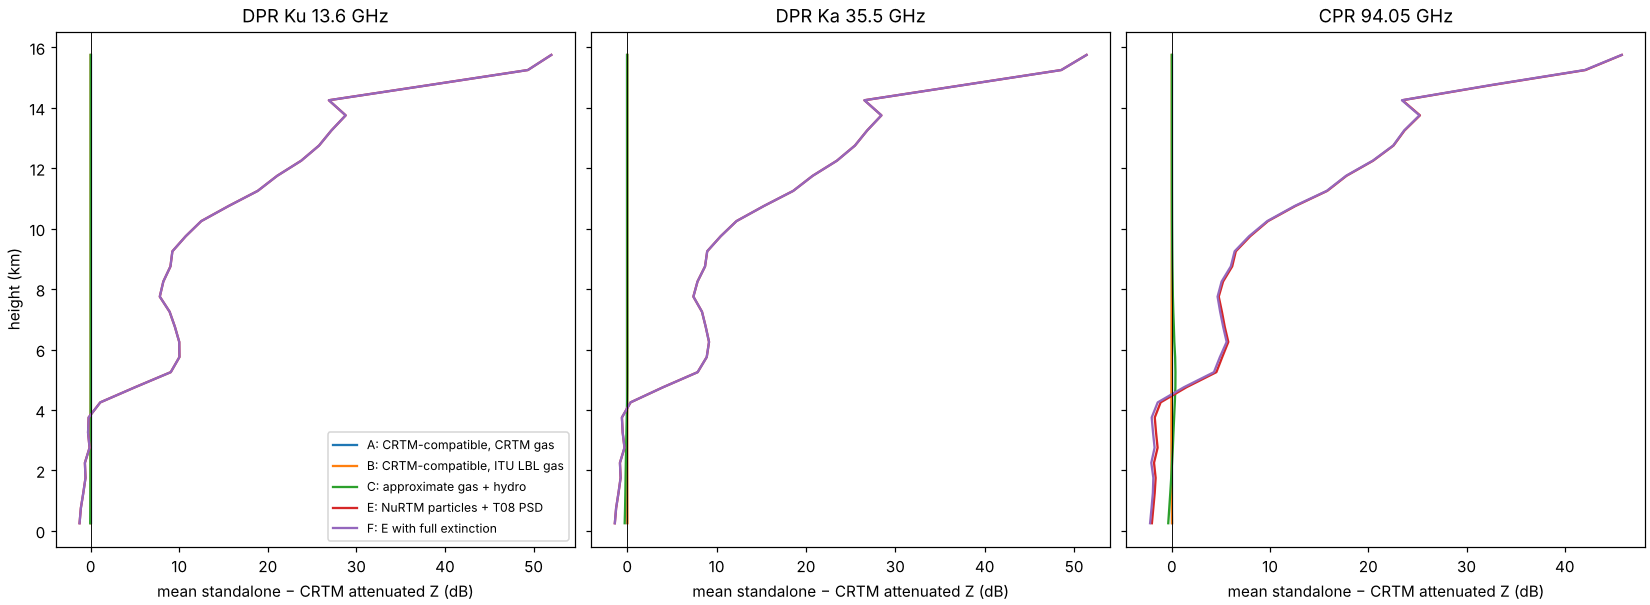
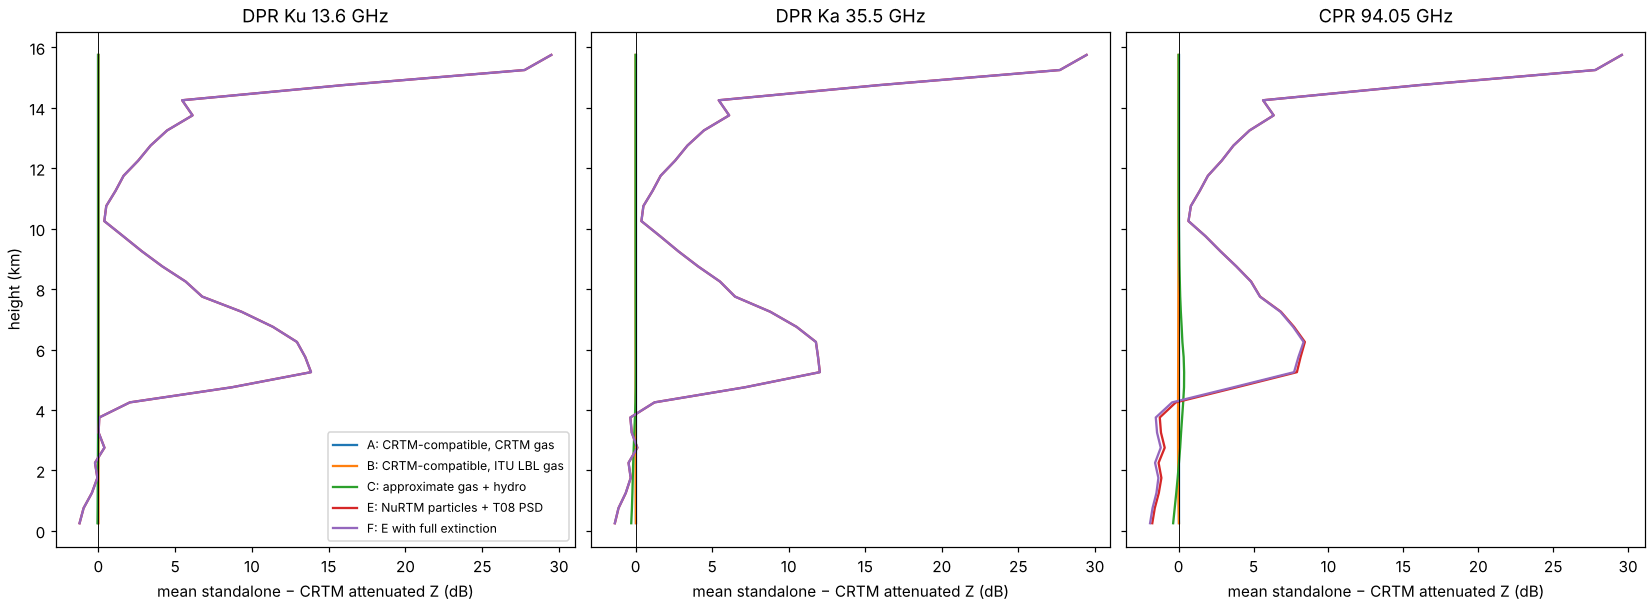
Add Thompson 2008 cloud ice PSD; same snow habit in CRTM comparison
PSD_T08_ICE: exponential cloud ice with m = pi/6*890 D^3, Ni fixed or
diagnosed with Cooper (1986) capped at 250 L-1, and the Thompson slope
limits. The comparison driver can run CRTM and the LUT variants with a
chosen snow habit (6BulletRosette here) so the habit matches the NuRTM
particles. Comparison write-up updated.

Claude-Session: https://claude.ai/code/session_01TgNzgcBqdRDrSGhnfs1DdV

diff --git a/standalone_radar/doc/COMPARISON.md b/standalone_radar/doc/COMPARISON.md
@@ -93,42 +93,43 @@ configurations: `test/test_radar_operator.f90`.
 
 The species are built from the NuRTM single-scattering databases
 (`ssdb_nurtm/mw`, converted from the ARTS DDA database) with
-`species_from_ssdb`, using the PSDs of the NuRTM validation runs:
+`species_from_ssdb`:
 
 | Species | Habit | PSD |
 | --- | --- | --- |
-| cloud liquid | LiquidSphere | gamma, N0 = 3e35, μ = 4, on d_veq |
-| cloud ice | IceSphere | gamma, N0 = 1e10, μ = 1, on d_max |
+| cloud liquid | LiquidSphere | gamma, N0 = 3e35, μ = 4, on d_veq (NuRTM validation default) |
+| cloud ice | IceSphere | Thompson 2008 ice: exponential, m = π/6·890 D³, Ni from Cooper (1986) capped at 250 L⁻¹, Thompson slope limits |
 | rain | LiquidSphere | Thompson 2008 rain (N0 = 8e6), on d_veq |
 | snow | 6BulletRosette | Thompson 2008 snow, Field et al. (2005) two-mode |
 
-As in NuRTM, the cross sections are interpolated linearly in frequency and
-temperature, the PSD is evaluated on the database sizes and renormalised to
-the database particle masses, and the asymmetry parameter comes from F11.
-TL, AD and K pass the same tests as the other paths (6 more cases).
+In this run CRTM and the table variants (A to D) also use the 6-bullet
+rosette for snow (`compare_crtm ... 6BulletRosette`), so the habit is the same
+everywhere. As in NuRTM, the cross sections are interpolated linearly in
+frequency and temperature, the PSD is evaluated on the database sizes and
+renormalised to the database particle masses, and the asymmetry parameter
+comes from F11. TL, AD and K pass the same tests as the other paths.
 
-Median Z on gates with only one species (all 60048 profiles):
+Median Z (dBZ) on gates with only one species, all 60048 profiles:
 
 | Species | Ku: CRTM / E | Ka: CRTM / E | W: CRTM / E |
 | --- | --- | --- | --- |
 | rain | 2.2 / 2.3 | 2.9 / 2.9 | 2.7 / 2.6 |
-| snow | −8.4 / −1.8 | −8.2 / −2.1 | −7.3 / −3.8 |
+| snow (6-bullet rosette in both) | −8.9 / −1.8 | −8.7 / −2.1 | −8.5 / −3.8 |
 | cloud liquid | (0) / −54 | (0) / −54 | (0) / −54 |
-| cloud ice | (0) / −0.1 | (0) / −0.1 | (0) / −2.0 |
+| cloud ice | (0) / −26 | (0) / −26 | (0) / −25 |
 
-* **Rain agrees with the CRTM table to 0.1 dB** at all three frequencies:
-  the CRTM DDA Thompson table and the NuRTM liquid spheres with the
-  Thompson rain PSD are the same physics.
-* **Snow is 3 to 6 dB higher** than CRTM. CRTM's table uses the
-  SectorSnowflake habit, which is not in the NuRTM database, and the
-  standalone run uses the 6-bullet rosette, as the NuRTM validation runs do.
-  The habit is the most likely cause.
-* **Cloud liquid** gives about −54 dBZ, realistic for the small water
-  contents in these gates.
-* **Cloud ice** with the gamma PSD (N0 = 1e10, μ = 1) gives about 0 dBZ for a
-  few mg m⁻³, which is high for cloud ice (typically −30 to −15 dBZ). That
-  PSD puts the mass in particles of a few hundred micrometres. A cloud-ice
-  PSD with more, smaller particles (or the number concentration from the
-  model) would be more realistic.
+* **Rain agrees with the CRTM table to 0.1 dB** at all three frequencies.
+* **Snow is 4 to 7 dB higher than CRTM even with the same habit**, so the
+  difference is in the PSD. The CRTM frozen tables have no temperature
+  dimension, so they were built for one PSD per water content, while the
+  Field (2005) PSD here uses the layer temperature. With the exponential
+  Thompson (2004) snow PSD the difference grows to 6 to 10 dB.
+* **Cloud liquid** gives about −54 dBZ, realistic for these small water
+  contents.
+* **Cloud ice** with the Thompson PSD gives a median of −26 dBZ (90th
+  percentile −8, 99th +7). The high tail is warm cloud ice: Cooper gives few
+  crystals near 0 °C, so the IFS ice mass goes into large particles even
+  with Thompson's 700 µm slope limit. A model with prognostic Ni can pass it
+  (`ni` argument) instead.
 * Full extinction (F) only changes the attenuation at W band (Zatt bias
-  −0.13 dB with truncation, −0.34 dB without).
+  −0.16 dB with truncation, −0.32 dB without).

diff --git a/standalone_radar/README.md b/standalone_radar/README.md
@@ -136,7 +136,8 @@ cross sections are interpolated to the radar frequency and kept on the
 database temperature grid. PSD choices, as in NuRTM:
 `PSD_GAMMA` (n0, mu, mass-size fit to the database), `PSD_T08_RAIN`,
 `PSD_T08_SNOW` (exponential, Thompson 2004 intercept), `PSD_T08_SNOW_FIELD05`
-(two-mode Field et al. 2005, the Thompson 2008 snow), `PSD_T08_GRAUPEL`, and
+(two-mode Field et al. 2005, the Thompson 2008 snow), `PSD_T08_GRAUPEL`,
+`PSD_T08_ICE` (Thompson cloud ice; `ni` fixed, or Cooper 1986 from temperature), and
 `PSD_GAMMA_FIXED_N0`. The PSD is renormalised to the database particle masses.
 
 ```fortran
